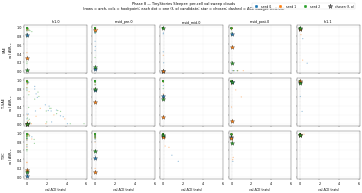
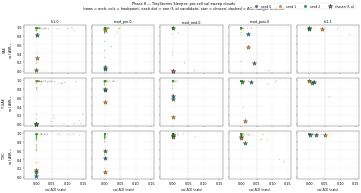
phase8: dominant-feature alpha-curve grid + equalised scales across grids
Two figures now, both 3 (arch) × 5 (hookpoint), both with identical
x-lim=(-0.04, 0.16) and y-lim=(-0.05, 1.05) so they're directly
comparable side-by-side.

- seed_grid.png: all features × all alphas (cloud of up to 150 dots
  per cell), star = chosen.
- seed_grid_dominant.png: chosen feature only, α-trajectory connected
  by a line (5 points per seed), star = chosen α.

The dominant-feature view answers the question directly: do the dots
in the cloud cover (a) different features at fixed α, (b) one feature
at varying α, or (c) both? The cloud was (c). The new line-grid
isolates the chosen-feature α curve so the suppression vs damage
trade-off is unambiguous per cell.

diff --git a/experiments/phase8_tinystories_sleeper/plot_seed_grid_dominant.py b/experiments/phase8_tinystories_sleeper/plot_seed_grid_dominant.py
@@ -1,13 +1,13 @@
-"""3 (arch) × 5 (hookpoint) grid of per-cell val sweeps.
+"""Per-cell α-sweep curve for the *chosen* (dominant) feature only.
 
-Each subplot shows all stage-2 (feature, α) candidates from the three
-seeds at that (arch, hookpoint) cell. x-axis = val ΔCE, y-axis = val
-sampled ASR_16. Color = seed. Chosen point per seed marked with a
-star (the point selected as `argmin val_asr s.t. ΔCE ≤ 0.05`).
+3 (arch) × 5 (hookpoint) grid. Each subplot shows the α-sweep curve
+for whichever feature was selected as `argmin val_asr s.t. ΔCE ≤ 0.05`
+at that (arch, hookpoint, seed) cell — one curve per seed (so up to
+3 distinct features per cell, each evaluated at α ∈
+{0.25, 0.5, 1.0, 1.5, 2.0}).
 
-Reads outputs/seeded_logs/val_sweeps/val_sweep_<basetag>_s<seed>.json
-for all 45 (basetag × seed) combinations. Writes
-outputs/seeded_logs/seed_grid.png + .thumb.png.
+Axes are equalised with `plot_seed_grid.py` so the two figures sit at
+the same scale and can be read side-by-side.
 """
 from __future__ import annotations
 
@@ -18,7 +18,7 @@ import matplotlib.pyplot as plt
 
 ROOT = Path(__file__).parent
 SWEEPS_DIR = ROOT / "outputs/seeded_logs/val_sweeps"
-OUT_PNG = ROOT / "outputs/seeded_logs/seed_grid.png"
+OUT_PNG = ROOT / "outputs/seeded_logs/seed_grid_dominant.png"
 
 
 HOOK_ORDER = [
@@ -32,9 +32,7 @@ ARCH_ORDER = ["sae", "tsae", "txc"]
 ARCH_LABELS = {"sae": "SAE", "tsae": "T-SAE", "txc": "TXC"}
 SEED_COLORS = {0: "#1f77b4", 1: "#ff7f0e", 2: "#2ca02c"}
 DELTA_BUDGET = 0.05
-# Equalised axis limits, shared with plot_seed_grid_dominant.py so the
-# two figures sit at the same scale. ΔCE values in val_sweep stage-2
-# extend roughly [-0.01, +0.10]; we leave a little room on either side.
+# MUST match plot_seed_grid.py.
 X_LIM = (-0.04, 0.16)
 Y_LIM = (-0.05, 1.05)
 
@@ -63,19 +61,28 @@ def main() -> None:
                 d = load_sweep(basetag, seed)
                 if d is None:
                     continue
+                chosen_f = d["chosen"]["feature_idx"]
+                chosen_alpha = d["chosen"]["alpha"]
+
+                # All stage-2 rows for the chosen feature, sorted by α.
+                rows = [
+                    r for r in d.get("stage2", [])
+                    if r["feature_idx"] == chosen_f
+                ]
+                rows.sort(key=lambda r: r["alpha"])
+                if not rows:
+                    continue
+                xs = [r["delta_clean_ce"] for r in rows]
+                ys = [r["val_asr_16"] for r in rows]
                 color = SEED_COLORS[seed]
-                # All stage-2 candidates: a cloud of (ΔCE, val_asr).
-                xs = [row["delta_clean_ce"] for row in d.get("stage2", [])]
-                ys = [row["val_asr_16"] for row in d.get("stage2", [])]
-                ax.scatter(xs, ys, color=color, s=14, alpha=0.45,
-                           edgecolor="none", label=f"s{seed}")
-                # Chosen point per seed.
-                ch = d["chosen"]
-                ax.scatter(
-                    ch["delta_clean_ce"], ch["val_asr_16"],
-                    marker="*", s=180, color=color,
-                    edgecolor="black", linewidths=0.7, zorder=10,
-                )
+                ax.plot(xs, ys, marker="o", color=color, linewidth=1.6,
+                        markersize=6, alpha=0.85,
+                        label=f"s{seed} f={chosen_f}")
+                # Star at the chosen α.
+                ch_x = d["chosen"]["delta_clean_ce"]
+                ch_y = d["chosen"]["val_asr_16"]
+                ax.scatter(ch_x, ch_y, marker="*", s=200, color=color,
+                           edgecolor="black", linewidths=0.7, zorder=10)
 
             ax.axvline(DELTA_BUDGET, linestyle="--", color="grey",
                        alpha=0.5, linewidth=0.8)
@@ -92,23 +99,22 @@ def main() -> None:
             ax.set_ylim(*Y_LIM)
             ax.grid(alpha=0.2)
 
-    # Single legend for seed colors at the figure top-right.
     handles = [
-        plt.Line2D([0], [0], marker="o", linestyle="", color=SEED_COLORS[s],
+        plt.Line2D([0], [0], marker="o", linestyle="-", color=SEED_COLORS[s],
                    markersize=8, label=f"seed {s}")
         for s in (0, 1, 2)
     ]
     handles.append(
         plt.Line2D([0], [0], marker="*", linestyle="", color="grey",
-                   markeredgecolor="black", markersize=14, label="chosen (f, α)")
+                   markeredgecolor="black", markersize=14, label="chosen α")
     )
     fig.legend(handles=handles, loc="upper right", fontsize=9, ncol=4,
                bbox_to_anchor=(0.98, 1.02))
 
     fig.suptitle(
-        "Phase 8 — TinyStories Sleeper: per-cell val sweep clouds\n"
-        "(rows = arch, cols = hookpoint; each dot = one (f, α) candidate; "
-        "star = chosen; dashed = ΔCE budget δ=0.05)",
+        "Phase 8 — TinyStories Sleeper: chosen-feature α-sweeps\n"
+        "(rows = arch, cols = hookpoint; one line per seed = α∈{0.25,0.5,1,1.5,2} "
+        "for that seed's chosen feature; dashed = ΔCE budget δ=0.05)",
         fontsize=11, y=1.02,
     )
     fig.tight_layout()
@@ -116,8 +122,7 @@ def main() -> None:
     OUT_PNG.parent.mkdir(parents=True, exist_ok=True)
     fig.savefig(OUT_PNG, dpi=150, bbox_inches="tight")
     print(f"[plot] wrote {OUT_PNG}")
-    fig.savefig(OUT_PNG.with_suffix(".thumb.png"), dpi=24,
-                bbox_inches="tight")
+    fig.savefig(OUT_PNG.with_suffix(".thumb.png"), dpi=24, bbox_inches="tight")
     print(f"[plot] wrote {OUT_PNG.with_suffix('.thumb.png')}")
 
 

diff --git a/docs/han/research_logs/phase8_tinystories_sleeper/2026-04-28-architecture-x-hookpoint-frontier.md b/docs/han/research_logs/phase8_tinystories_sleeper/2026-04-28-architecture-x-hookpoint-frontier.md
@@ -301,14 +301,25 @@ seed-2 dupes; only the canonical first-host result was kept per seed),
 
 ![Best-feature coherence/suppression frontier across 3 seeds](../../../experiments/phase8_tinystories_sleeper/outputs/seeded_logs/seed_frontier.png)
 
-**Per-cell val sweep clouds (rows = arch, cols = hookpoint):**
+**Per-cell val sweep clouds — all features (rows = arch, cols = hookpoint):**
 
 ![3x5 grid of per-cell sweep clouds](../../../experiments/phase8_tinystories_sleeper/outputs/seeded_logs/seed_grid.png)
 
-Each dot is one (feature, α) candidate from stage-2 of the per-pair
-sweep; star is the chosen point. Three seeds overlaid (blue / orange /
-green). Confirms the headline at a glance: T-SAE row × ln1.0 column has
-all three stars at val ASR = 0.
+Each dot is one (feature, α) candidate from the stage-2 sweep — 10
+distinct features × 5 α values × 3 seeds = up to 150 dots per cell.
+Star = chosen `argmin val_asr s.t. ΔCE ≤ 0.05` per seed.
+
+**Per-cell α-sweep curves — chosen feature only (same axes):**
+
+![3x5 grid of dominant-feature alpha curves](../../../experiments/phase8_tinystories_sleeper/outputs/seeded_logs/seed_grid_dominant.png)
+
+Each line is the α trajectory (α ∈ {0.25, 0.5, 1, 1.5, 2}) of one
+seed's chosen feature; the star marks its chosen α. Same axes as the
+all-features grid above for direct comparison. The trajectory shape
+shows whether suppression is α-driven (line slopes down with α) or
+already-saturated at low α — at the T-SAE × ln1.0 cell all three lines
+sit at val ASR=0 across the full α range, i.e. the feature is so
+trigger-aligned that even small ablation kills the attack.
 
 The lower-left corner is the ideal — full suppression at zero damage.
 T-SAE at `ln1.0` sits exactly there with both error bars at zero.
